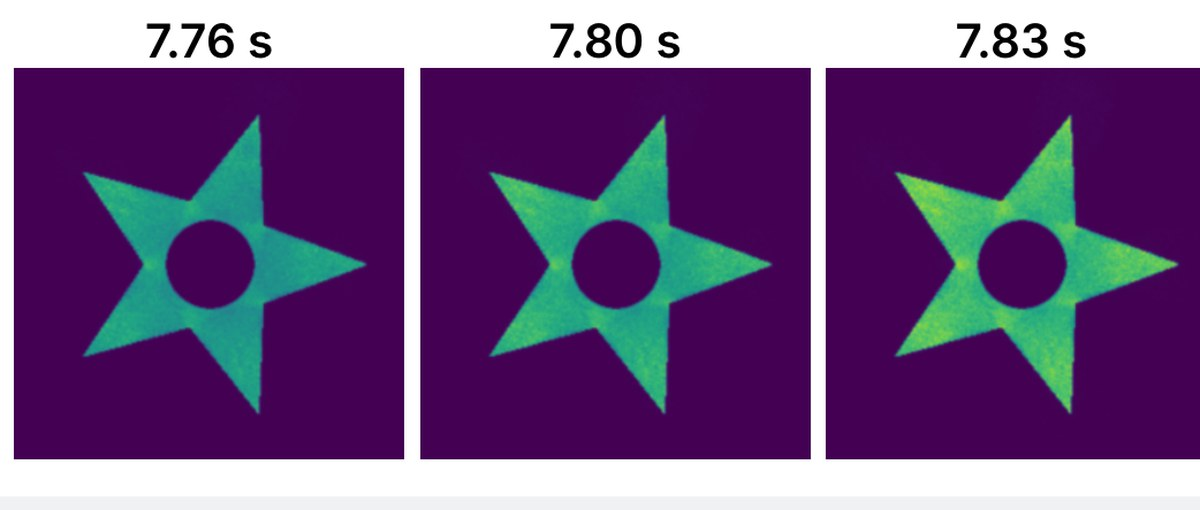
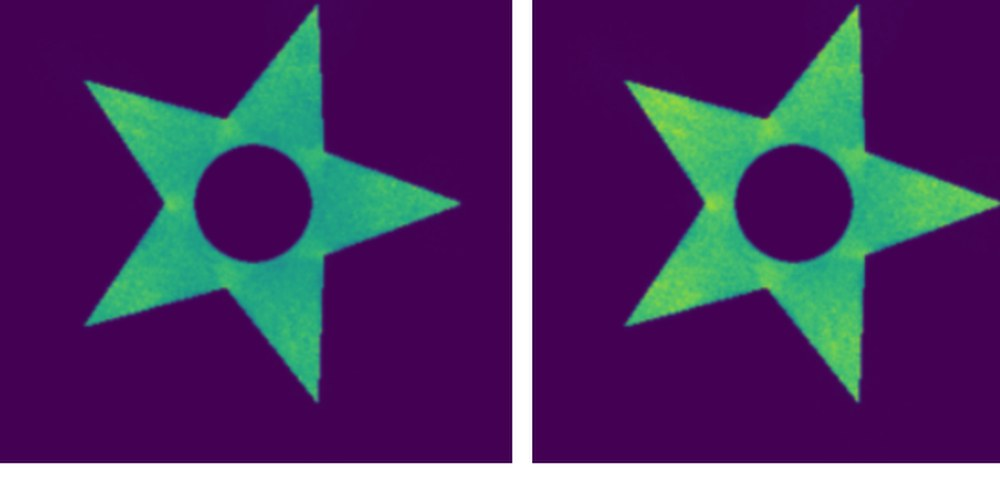
Smaller PhD highlight card; three equal cards in a row on desktop

diff --git a/_sass/site.scss b/_sass/site.scss
@@ -414,6 +414,11 @@ summary:hover { color: var(--accent-hover); }
 // ---------------------------------------------------------------------------
 
 @media (min-width: 861px) {
+  .is-home .cards { grid-template-columns: repeat(3, 1fr); gap: 14px; }
+  .is-home .card-body { padding: 10px 12px 12px; }
+  .is-home .card h3 { font-size: 0.95rem; }
+  .is-home .card p { font-size: 0.84rem; }
+
   body:not(.is-home) .wrapper {
     max-width: 880px;
     padding: 36px 24px 56px;
@@ -547,8 +552,6 @@ h2 .more { float: right; margin-top: 0.35em; font-size: 0.82rem; font-weight: 60
 .card .tag { display: block; margin-bottom: 4px; color: var(--accent); font-size: 0.72rem; font-weight: 700; letter-spacing: 0.06em; text-transform: uppercase; }
 .card h3 { margin: 0 0 4px; font-size: 1rem; line-height: 1.3; }
 .card p { margin: 0; color: var(--muted); font-size: 0.88rem; line-height: 1.45; }
-.cards.featured > li:first-child { grid-column: 1 / -1; }
-.cards.featured > li:first-child .card img { aspect-ratio: 2.35 / 1; }
 
 .video-embed { display: block; width: 100%; max-width: 720px; margin: 10px 0 6px; border: 1px solid var(--line); border-radius: 8px; background: #000; }
 

diff --git a/index.md b/index.md
@@ -12,7 +12,7 @@ Before EPFL, I studied Physics at Lanzhou University and completed the MSc in Ph
 
 ## Research Highlights {#research}
 
-<ul class="cards featured">
+<ul class="cards">
 <li><a class="card" href="research.html#phd">
 <img src="assets/img/card-phd.jpg" alt="Phase images of a star-shaped print forming over time">
 <div class="card-body"><span class="tag">PhD · EPFL · 2026 –</span><h3>Phase imaging for light-based 3D printing</h3><p>Fourier ptychography and differential phase contrast to monitor TVAM and holographic prints as they cure.</p></div>
